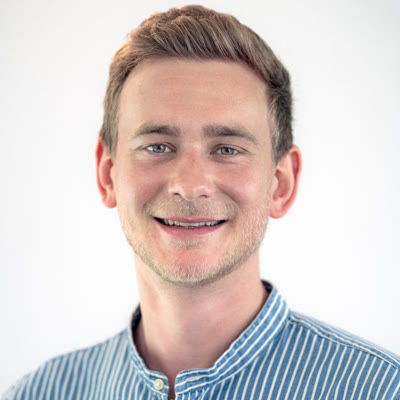
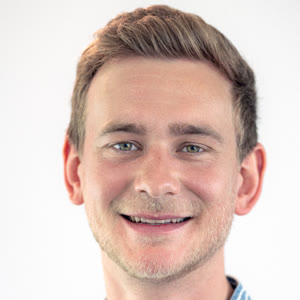
Re-crop the author photos on the faces
Centre-cropping the originals left head sizes all over the place: about 40% of
the frame for Guillaume and Fabian, barely 15% for Yann, whose photo is a crowd
scene, and for Justin, sitting on a staircase. Each is now framed on its face,
so heads read at a comparable scale down the row. Zoom ranges from 1.3x to 3.1x.

Photo URLs carry ?v=2 since the filenames did not change and browsers would
otherwise keep serving the old crops.

Yann's remains the weakest source: cropped out of a black-and-white crowd shot,
it stays softer than the rest. A proper portrait would fix it.

diff --git a/index.html b/index.html
@@ -132,56 +132,56 @@
                             <div class="team-container">
                                 <div class="team-member">
                                     <a>
-                                        <img src="./static/images/authors/guillaume_besset.jpg" alt="Guillaume Besset" loading="lazy">
+                                        <img src="./static/images/authors/guillaume_besset.jpg?v=2" alt="Guillaume Besset" loading="lazy">
                                         <div>Guillaume<br>Besset<sup>*,1</sup></div>
                                     </a>
                                 </div>
 
                                 <div class="team-member">
                                     <a>
-                                        <img src="./static/images/authors/erwann_carn.jpg" alt="Erwann Carn" loading="lazy">
+                                        <img src="./static/images/authors/erwann_carn.jpg?v=2" alt="Erwann Carn" loading="lazy">
                                         <div>Erwann<br>Carn<sup>*,1</sup></div>
                                     </a>
                                 </div>
 
                                 <div class="team-member">
                                     <a>
-                                        <img src="./static/images/authors/timothee_carecchio.jpg" alt="Timothee Carecchio" loading="lazy">
+                                        <img src="./static/images/authors/timothee_carecchio.jpg?v=2" alt="Timothee Carecchio" loading="lazy">
                                         <div>Timoth&eacute;e<br>Carecchio<sup>1</sup></div>
                                     </a>
                                 </div>
 
                                 <div class="team-member">
                                     <a>
-                                        <img src="./static/images/authors/valentin_tordjman_levavasseur.jpg" alt="Valentin Tordjman-Levavasseur" loading="lazy">
+                                        <img src="./static/images/authors/valentin_tordjman_levavasseur.jpg?v=2" alt="Valentin Tordjman-Levavasseur" loading="lazy">
                                         <div>Valentin<br>Tordjman&ndash;<br>Levavasseur<sup>1</sup></div>
                                     </a>
                                 </div>
 
                                 <div class="team-member">
                                     <a href="https://fabinsch.github.io/" target="_blank">
-                                        <img src="./static/images/authors/fabian_schramm.jpg" alt="Fabian Schramm" loading="lazy">
+                                        <img src="./static/images/authors/fabian_schramm.jpg?v=2" alt="Fabian Schramm" loading="lazy">
                                         <div>Fabian<br>Schramm<sup>1</sup></div>
                                     </a>
                                 </div>
 
                                 <div class="team-member">
                                     <a href="https://ymontmarin.github.io/" target="_blank">
-                                        <img src="./static/images/authors/yann_de_mont_marin.jpg" alt="Yann de Mont-Marin" loading="lazy">
+                                        <img src="./static/images/authors/yann_de_mont_marin.jpg?v=2" alt="Yann de Mont-Marin" loading="lazy">
                                         <div>Yann<br>de Mont-Marin<sup>1</sup></div>
                                     </a>
                                 </div>
 
                                 <div class="team-member">
                                     <a href="https://jcarpent.github.io" target="_blank">
-                                        <img src="./static/images/authors/justin_carpentier.jpg" alt="Justin Carpentier" loading="lazy">
+                                        <img src="./static/images/authors/justin_carpentier.jpg?v=2" alt="Justin Carpentier" loading="lazy">
                                         <div>Justin<br>Carpentier<sup>1</sup></div>
                                     </a>
                                 </div>
 
                                 <div class="team-member">
                                     <a href="https://www.ajaysathya.com" target="_blank">
-                                        <img src="./static/images/authors/ajay_suresha_sathya.jpg" alt="Ajay Suresha Sathya" loading="lazy">
+                                        <img src="./static/images/authors/ajay_suresha_sathya.jpg?v=2" alt="Ajay Suresha Sathya" loading="lazy">
                                         <div>Ajay<br>Suresha<br>Sathya<sup>1,2</sup></div>
                                     </a>
                                 </div>
